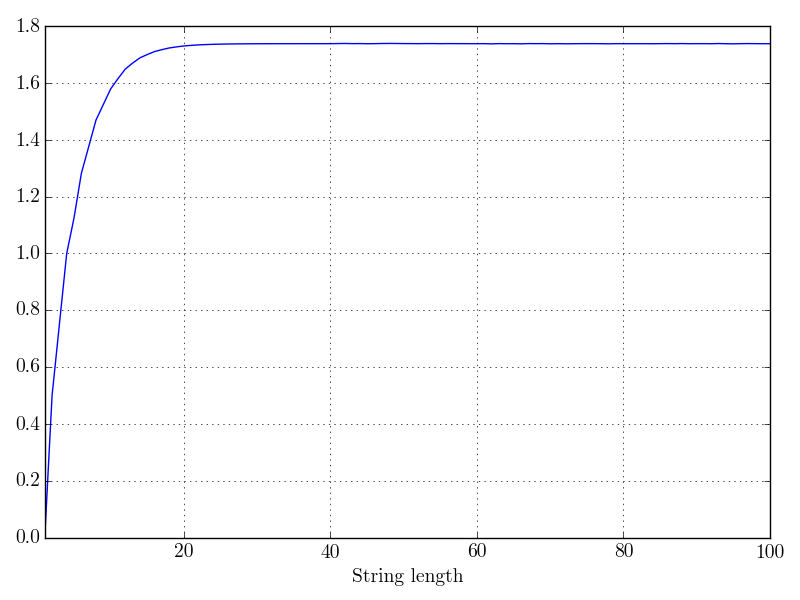
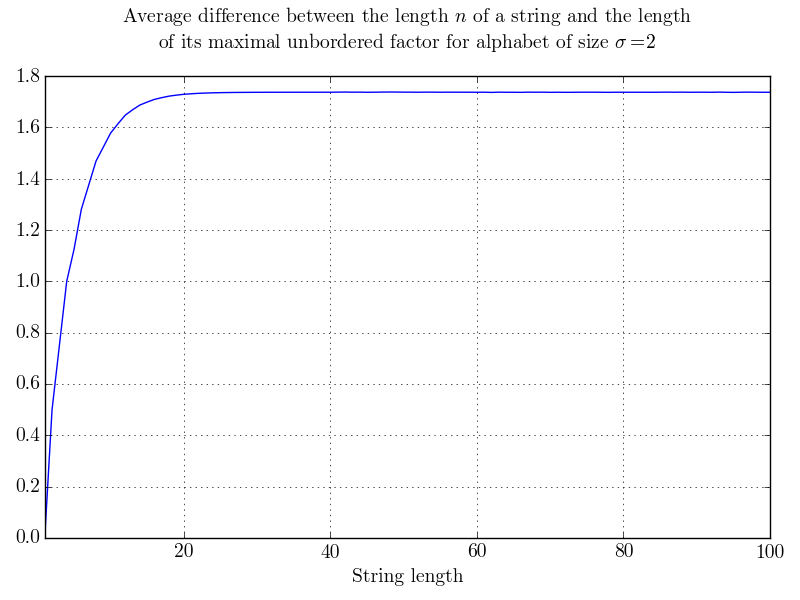
add titles to figs

diff --git a/src/py/graph.py b/src/py/graph.py
@@ -74,9 +74,9 @@ if __name__ == '__main__':
             pl.axes().set_xlim(min(keys), max(keys))
             pl.grid()
 
-            # pl.title('Average difference between the length $n$ of a string and the length\n'
-            #          'of its maximal {} for alphabet of size $\sigma = {}$\n'.format(verbose_name, alphabet),
-            #          fontproperties=font14)
+            pl.title('Average difference between the length $n$ of a string and the length\n'
+                     'of its maximal {} for alphabet of size $\sigma = {}$\n'.format(verbose_name, alphabet),
+                     fontproperties=font14)
             save_me('results/{}/Alphabet_size_{}.png'.format(dir_name, alphabet), font14)
 
         for alphabets in [range(2, 6), range(3, 6)]:
@@ -96,9 +96,9 @@ if __name__ == '__main__':
             pl.legend(loc=4, prop=font14)
             pl.grid()
 
-            # pl.title('Average difference between the length $n$ of a string and the length\n'
-            #          'of its maximal {} for alphabets of size $\sigma = \{{{}\}}$\n'.format(
-            #              verbose_name, ','.join(map(str, alphabets))), fontproperties=font14)
+            pl.title('Average difference between the length $n$ of a string and the length\n'
+                     'of its maximal {} for alphabets of size $\sigma = \{{{}\}}$\n'.format(
+                         verbose_name, ','.join(map(str, alphabets))), fontproperties=font14)
             save_me('results/{}/Alphabet_size_{}.png'.format(dir_name, '_'.join(map(str, alphabets))), font14)
 
     for alphabet in xrange(2, 6):
@@ -154,9 +154,9 @@ if __name__ == '__main__':
         pl.legend(loc=4, prop=font14)
         pl.grid()
         pl.axes().set_xlim(2, 100)
-        # pl.title('Difference between the length $n$ of a string and the average length of its maximal\n'
-        #          'unbordered factor $b(n)$ and maximal unbordered prefix $p(n)$ '
-        #          'for alphabet of size $\sigma={}$'.format(alphabet), fontproperties=font14)
+        pl.title('Difference between the length $n$ of a string and the average length of its maximal\n'
+                 'unbordered factor $b(n)$ and maximal unbordered prefix $p(n)$ '
+                 'for alphabet of size $\sigma={}$'.format(alphabet), fontproperties=font14)
         save_me('results/{}/Alphabet_size_{}.png'.format(dir_name, alphabet), font14)
 
         pl.axes().clear()
